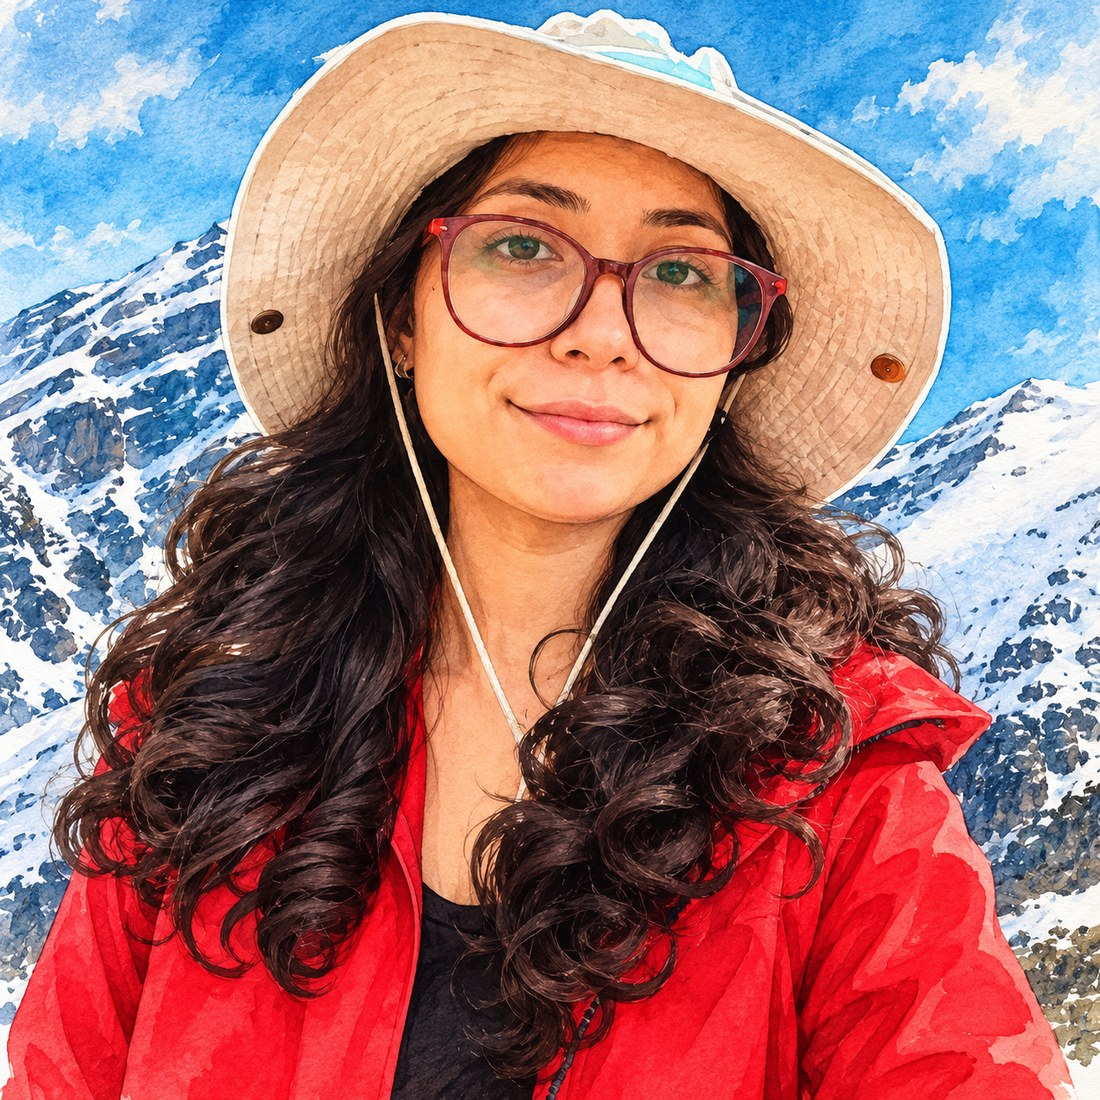
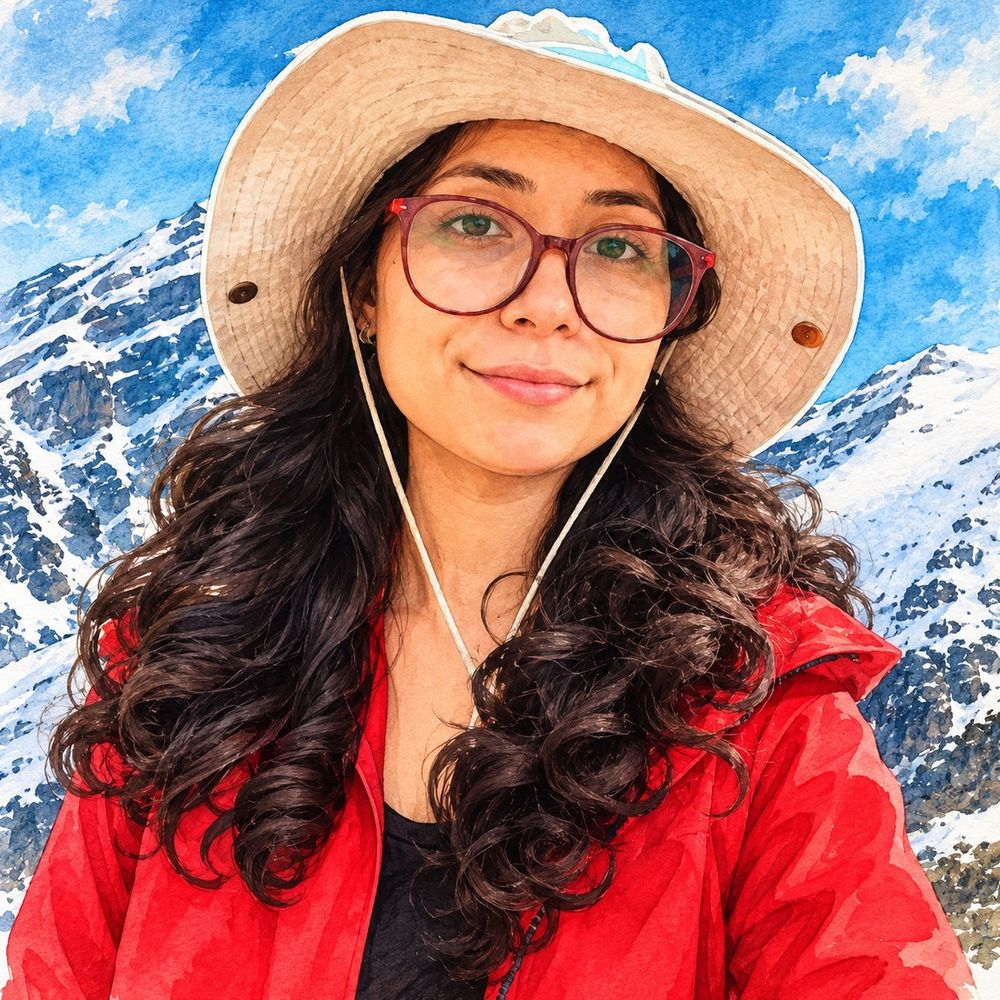
Carga más liviana y botones cómodos: stickers y fotos achicados (4,5 MB → 1,4 MB), el service worker solo precarga lo básico, más contraste en 3 textos y botones de 44 px

diff --git a/Dallana.css b/Dallana.css
@@ -511,6 +511,10 @@ main>header.cover{background:radial-gradient(circle,rgba(209,52,63,.08) 0 1px,tr
 @keyframes latir{0%,40%,100%{transform:scale(1)}15%{transform:scale(1.07)}}
 .music-volume{display:flex;align-items:center;gap:8px;min-height:44px;color:var(--tinta-suave);font-size:13px}
 .music-volume svg{width:20px;height:20px}
+.music-volume input[type=range]{height:32px;cursor:pointer}
+/* la × de los diálogos se ve igual, pero se puede tocar en un área de 48–52 px */
+.close::after,.alejandro-cerrar::after{content:"";position:absolute;inset:-6px;border-radius:50%}
+.alejandro-siguiente::after{content:"";position:absolute;inset:-4px -2px}
 .music-volume input{width:96px;accent-color:var(--vino);cursor:pointer}
 .music-volume output{min-width:36px;font-variant-numeric:tabular-nums;text-align:right}
 .music-hint{color:var(--tinta-suave);font:600 19px/1.3 var(--firma)}
@@ -538,7 +542,7 @@ main>header.cover{background:radial-gradient(circle,rgba(209,52,63,.08) 0 1px,tr
 .progress-hearts.completo .ph-corazon{animation:ph-latido 1.6s ease-in-out infinite;animation-delay:calc(var(--i)*.12s)}
 .hito-label{margin:18px 0 0}
 .pixel-hitos{display:flex;flex-wrap:wrap;gap:8px;margin-top:10px}
-.pixel-hito{display:inline-flex;align-items:center;gap:6px;min-height:40px;padding:8px 12px;border:2px dashed var(--linea);border-radius:10px;background:var(--tarjeta);color:var(--tinta-suave);font-weight:600;font-size:14px;cursor:pointer}
+.pixel-hito{display:inline-flex;align-items:center;gap:6px;min-height:44px;padding:8px 12px;border:2px dashed var(--linea);border-radius:10px;background:var(--tarjeta);color:var(--tinta-suave);font-weight:600;font-size:14px;cursor:pointer}
 .pixel-hito.abierto{border-style:solid;border-color:var(--vino);color:var(--vino);box-shadow:3px 3px 0 var(--vino)}
 .pixel-hito.abierto:hover{transform:translate(-1px,-1px);box-shadow:4px 4px 0 var(--vino)}
 .pixel-hito-icono{font-size:13px}
@@ -587,7 +591,7 @@ main>header.cover{background:radial-gradient(circle,rgba(209,52,63,.08) 0 1px,tr
 @media (prefers-reduced-motion:reduce){.paper .resalte,.paper.new .paper-sello,#random::after{animation:none}}
 .paper.new{animation:paper-in .6s cubic-bezier(.3,1.4,.5,1)}
 @keyframes paper-in{from{transform:rotate(2deg) translateY(12px) scale(.96);opacity:.3}}
-.paper-label{display:block;margin:0 0 12px;color:#8a8494;font:700 11px var(--sans);letter-spacing:.18em;text-transform:uppercase}
+.paper-label{display:block;margin:0 0 12px;color:var(--tinta-suave);font:700 11px var(--sans);letter-spacing:.18em;text-transform:uppercase}
 .paper #message{max-width:560px;margin:0 auto;overflow-wrap:anywhere;color:#2b2a33;font:600 clamp(25px,6.4vw,36px)/1.32 var(--firma);text-wrap:balance}
 .memory{display:none;width:100%;max-height:380px;aspect-ratio:4/3;margin-top:20px;object-fit:cover;border:8px solid #fff;border-radius:4px;box-shadow:var(--sombra)}
 .memory.show{display:block}
@@ -599,7 +603,7 @@ main>header.cover{background:radial-gradient(circle,rgba(209,52,63,.08) 0 1px,tr
 .action-row .icon-btn{width:52px;height:52px;border:2px solid var(--vino);background:#fff;font-size:22px;box-shadow:0 6px 14px -8px rgba(209,52,63,.6)}
 .action-row .icon-btn.favorite{background:var(--vino);color:#fff}
 .secondary-row{display:grid;grid-template-columns:repeat(auto-fit,minmax(min(100%,200px),1fr));gap:10px}
-.memory-feature #daily{background:var(--azul-claro);border-color:rgba(61,114,196,.35);color:var(--azul)}
+.memory-feature #daily{background:var(--azul-claro);border-color:rgba(61,114,196,.35);color:#2c5ca8}
 .memory-feature #daily:hover{background:#d6e4f8}
 .memory-feature #viewFavorites{border:1px solid rgba(79,154,74,.35);background:var(--verde-claro);color:var(--verde);font-weight:600}
 .memory-feature #viewFavorites:hover{background:#d8ecce}
@@ -759,7 +763,7 @@ main>header.cover{background:radial-gradient(circle,rgba(209,52,63,.08) 0 1px,tr
   background:radial-gradient(circle at 0 50%,transparent 9px,var(--mantequilla) 9.5px) left/51% 100% no-repeat,radial-gradient(circle at 100% 50%,transparent 9px,var(--mantequilla) 9.5px) right/51% 100% no-repeat;
   filter:drop-shadow(0 2px 0 var(--oro)) drop-shadow(0 6px 10px rgba(120,48,40,.12));color:var(--tinta-suave);font:500 14px/1.3 var(--sans)}
 .museo-coleccion b{color:var(--vino);font-weight:700}
-.museo-boleto{padding:2px 14px 2px 0;border-right:2px dashed var(--oro);color:var(--oro-oscuro);font:700 12px/1.25 var(--sans);letter-spacing:.08em;text-transform:uppercase}
+.museo-boleto{padding:2px 14px 2px 0;border-right:2px dashed var(--oro);color:#7a5316;font:700 12px/1.25 var(--sans);letter-spacing:.08em;text-transform:uppercase}
 .museo-boleto small{display:block;color:var(--tinta-suave);font:600 15px/1.1 var(--firma);letter-spacing:0;text-transform:none}
 .museo-puntos{display:flex;flex-wrap:wrap;gap:4px}
 .museo-puntos i{width:10px;height:10px;border:1px solid var(--oro);border-radius:2px;background:var(--tarjeta)}
@@ -1129,7 +1133,7 @@ dialog#letterDialog[open]{animation:letter-dialog-in .6s cubic-bezier(.18,.8,.25
 /* menú de Alejandro */
 .alejandro-menu{display:grid;gap:6px;margin:2px 0 4px}
 .alejandro-menu[hidden]{display:none}
-.alejandro-menu button{min-height:36px;padding:6px 12px;border:2px solid var(--vino);border-radius:12px;background:#fff6f2;color:var(--vino);font:inherit;font-size:14px;font-weight:600;text-align:left;cursor:pointer}
+.alejandro-menu button{min-height:44px;padding:8px 12px;border:2px solid var(--vino);border-radius:12px;background:#fff6f2;color:var(--vino);font:inherit;font-size:14px;font-weight:600;text-align:left;cursor:pointer}
 .alejandro-menu button:hover{background:#ffe9e2}
 #menuBuzonN:not(:empty){display:inline-block;min-width:20px;margin-left:4px;padding:0 6px;border-radius:999px;background:var(--vino);color:#fff;font-size:12px;text-align:center}
 /* carta de papá y buzón */
@@ -1140,7 +1144,7 @@ dialog#letterDialog[open]{animation:letter-dialog-in .6s cubic-bezier(.18,.8,.25
 .carta-papa-fecha{margin:2px 0 12px;font-size:13px;color:var(--tinta-suave)}
 .carta-papa-texto{margin:0;color:var(--tinta);font:500 clamp(22px,5vw,26px)/1.45 var(--firma);white-space:pre-wrap;overflow-wrap:anywhere}
 .carta-papa-acciones{display:flex;flex-wrap:wrap;gap:8px;justify-content:center;margin-top:16px}
-.carta-btn{min-height:42px;padding:8px 16px;border:2px solid var(--vino);border-radius:999px;background:var(--vino);color:#fff;font:inherit;font-size:15px;font-weight:600;cursor:pointer}
+.carta-btn{min-height:44px;padding:8px 16px;border:2px solid var(--vino);border-radius:999px;background:var(--vino);color:#fff;font:inherit;font-size:15px;font-weight:600;cursor:pointer}
 .carta-btn.suave{background:#fff;color:var(--vino)}
 .carta-btn:disabled{opacity:.6;cursor:progress}
 .buzon-lista{display:grid;gap:8px;margin:12px 0 0;padding:0;list-style:none}
@@ -1205,8 +1209,8 @@ dialog#letterDialog[open]{animation:letter-dialog-in .6s cubic-bezier(.18,.8,.25
 .alejandro-nombre{display:block;margin-right:24px;color:var(--vino);font-size:13px;letter-spacing:.3px}
 .alejandro-globo p{margin:4px 0 8px;font-size:14px;line-height:1.45}
 .alejandro-pie{display:flex;align-items:center;justify-content:space-between;gap:8px;font-size:12px;color:var(--tinta-suave)}
-.alejandro-siguiente{min-height:32px;padding:4px 12px;border:2px solid var(--vino);border-radius:999px;background:var(--vino);color:#fff;font:inherit;font-size:13px;font-weight:600;cursor:pointer}
-.alejandro-cerrar{position:absolute;top:4px;right:6px;width:28px;height:28px;border:0;background:transparent;color:var(--vino);font-size:20px;line-height:1;cursor:pointer}
+.alejandro-siguiente{position:relative;min-height:38px;padding:6px 14px;border:2px solid var(--vino);border-radius:999px;background:var(--vino);color:#fff;font:inherit;font-size:13px;font-weight:600;cursor:pointer}
+.alejandro-cerrar{position:absolute;top:4px;right:6px;width:32px;height:32px;border:0;background:transparent;color:var(--vino);font-size:20px;line-height:1;cursor:pointer}
 @keyframes alejandro-globo-in{from{opacity:0;transform:translateY(8px) scale(.9)}}
 @media (max-width:599px){
   .alejandro{left:14px;bottom:calc(12px + var(--safe-bottom));transition:transform .35s ease,opacity .35s ease}

diff --git a/Dallana.html b/Dallana.html
@@ -26,7 +26,7 @@
 <link rel="preconnect" href="https://fonts.googleapis.com">
 <link rel="preconnect" href="https://fonts.gstatic.com" crossorigin>
 <link href="https://fonts.googleapis.com/css2?family=Caveat:wght@600&family=DM+Sans:wght@400;500;700&family=Fraunces:ital,opsz,wght@0,9..144,400;0,9..144,600;1,9..144,400;1,9..144,500&display=swap" rel="stylesheet">
-<link rel="stylesheet" href="Dallana.css?v=8.8">
+<link rel="stylesheet" href="Dallana.css?v=8.9">
 <link rel="manifest" href="manifest.json">
 <meta name="mobile-web-app-capable" content="yes">
 <meta name="apple-mobile-web-app-capable" content="yes">
@@ -320,7 +320,7 @@
   </header>
   <article class="letter-paper">
     <div id="letterText" class="letter-body"></div>
-    <img class="letter-sticker" src="assets/stickers/stikers20.png" alt="" aria-hidden="true" decoding="async">
+    <img class="letter-sticker" src="assets/stickers/stikers20.png" alt="" aria-hidden="true" loading="lazy" decoding="async">
   </article>
 </dialog>
 
@@ -341,7 +341,7 @@
       <span class="nota-doodle nota-flor" aria-hidden="true"></span>
       <span class="nota-doodle nota-rama" aria-hidden="true"></span>
       <span class="nota-doodle nota-esquina" aria-hidden="true"></span>
-      <img class="nota-sticker" src="assets/stickers/stikers18.png" alt="" aria-hidden="true" decoding="async">
+      <img class="nota-sticker" src="assets/stickers/stikers18.png" alt="" aria-hidden="true" loading="lazy" decoding="async">
       <span class="chapter-kicker">PARA ESTE MOMENTO</span>
       <h3 id="openWhenNoteTitle">Una carta para ti</h3>
       <p id="openWhenMessage"></p>

diff --git a/sw.js b/sw.js
@@ -1,18 +1,15 @@
-const CACHE_NAME = 'dallana-v3.88';
+const CACHE_NAME = 'dallana-v3.89';
+// Solo lo básico para abrir sin internet. Lo demás (fotos, GIF de recuerdos, stickers) se guarda
+// en la caché cuando ella lo ve, así cada actualización no vuelve a bajar varios MB por adelantado.
 const ASSETS_TO_CACHE = [
   './',
   './Dallana.html',
-  './Dallana.css?v=8.8',
+  './Dallana.css?v=8.9',
   './Dallana.js?v=3.71',
   './manifest.json',
-  './assets/fotos/portada-musica.png',
-  './assets/fotos/migeo.jpg',
-  './assets/stickers/stikers3.png',
   './assets/icons/icon-192.png',
-  './assets/icons/icon-512.png',
   './assets/pixel/alejandro.png?v=5',
   './assets/pixel/buzon.png?v=1',
-  './assets/pixel/obras.png?v=1',
   './assets/pixel/adornos.png?v=1',
   './assets/pixel/postal-manana.png?v=1',
   './assets/pixel/postal-tarde.png?v=1',
@@ -20,15 +17,7 @@ const ASSETS_TO_CACHE = [
   './assets/pixel/dragones.png?v=3',
   './assets/pixel/disfraces/cartero.png?v=2',
   './assets/fotos/portada-polaroid.jpg?v=2',
-  './assets/fotos/portada-tira.jpg?v=1',
-  './assets/pixel/disfraces/guia-de-museo.png?v=2',
-  './assets/pixel/lluvia.gif',
-  './assets/pixel/cena.gif',
-  './assets/pixel/laguna.gif',
-  './assets/pixel/dormir.gif',
-  './assets/pixel/estudio.gif',
-  './assets/pixel/pasarela.gif',
-  './assets/pixel/pasarela2.gif'
+  './assets/fotos/portada-tira.jpg?v=1'
 ];
 
 self.addEventListener('install', event => {

diff --git a/memory-bank/progress.md b/memory-bank/progress.md
@@ -40,6 +40,7 @@
 - 2026-11-20: encabezado más bonito: papel de libreta con puntitos, estrellita y florcita dibujadas junto a «Para» y su nombre, composición de collage en 2 columnas desde 600 px (antes quedaba un hueco a la derecha en anchos medianos) y postales apiladas (`.postal-pila`: detrás asoma, girada, la postal de la hora siguiente, `#postalAtras`). Nombre con tamaño según el ancho para que quepa en su columna. CSS v8.4, JS v3.66, caché dallana-v3.82.
 - 2026-11-21: mini-juego «Atrapa corazones» (`#juegoDialog`, canvas 320×400): Alejandro con su disfraz atrapa corazones (+1), dorados (+5) y esquiva nubes (3 vidas); récord en `dallanaRecordJuego` con aviso a papá; con 20+ llena un corazón del día. Se abre desde la sección 02 y el menú de Alejandro. Stickers que reaccionan (`FRASES_STICKERS`): saltan y muestran una frase. Los globos de Alejandro (tutorial, novedades) esperan si hay un diálogo abierto.
 - 2026-11-21: juego v2: cielo según la hora con cerros y nubes, cuenta 3-2-1, carta (+3 y frase), estrella (imán 6 s), burbuja (escudo), racha x2/x3, niveles cada 30, Alejandro mareado/baila/enamorado (filas 10/2/8), chispas y textos, sonidos WebAudio con botón (`dallanaJuegoSonido`), pausa al salir, medallas 🥉10 🥈30 🥇60 💎100. Stickers v2: 4 animaciones que rotan, corazoncitos, 2 frases por sticker, globo con colita, colección `dallanaStickers` (al completarla Alejandro felicita y avisa a papá). Servidor de Cloudflare probado y descartado por decisión del usuario (se borró de su cuenta; `rincon-servidor/` queda apagado con `URL_RINCON=''`). Versiones: CSS v8.7, JS v3.69, caché dallana-v3.86.
+- 2026-11-21: rendimiento y accesibilidad: stickers achicados (máx. 360 px, 450 en stikers18/20; 256 colores) y fotos a 1000 px → imágenes de 4,5 MB a 1,4 MB con los mismos nombres; `sw.js` ya no precarga GIF de recuerdos ni fotos (solo lo básico; lo demás se guarda al verlo); letter-sticker y nota-sticker con `loading="lazy"`. Primera carga ≈730 KB sin contar la música (que solo pide metadatos). Contraste: `.paper-label` a `--tinta-suave`, `.museo-boleto` #7a5316, `#daily` #2c5ca8. Toque: botones del menú de Alejandro, `.pixel-hito` y `.carta-btn` a 44 px; `.close` y `.alejandro-cerrar` con área invisible `::after` más grande; volumen 32 px. Los GIF ya vienen comprimidos (Pillow no los reduce). Versiones: CSS v8.9, caché dallana-v3.89.
 - 2026-11-21: servidor opcional en Cloudflare (`rincon-servidor/`, guía en `rincon-servidor/GUIA.md`): temas de ntfy ocultos como secretos, PIN de Dallana (`#claveDialog`, `dallanaToken`), cartas guardadas para siempre (cron cada 15 min) y `/programar AAAA-MM-DD`, respaldo del progreso (`/api/progreso`, sube cada minuto si cambió y restaura lo que falte al entrar en otro teléfono). Se activa poniendo la dirección en `URL_RINCON` (vacío = igual que antes). Probado contra un servidor de prueba local. `sw.js` ya no intercepta peticiones a otros sitios (rompía los GET al servidor). Lista para probar en el teléfono: `PRUEBA-TELEFONO.md`. CSS v8.6, JS v3.68, caché dallana-v3.85.
 
 - 2026-11-21: Recuerdo 6 «Los patitos de la pasarela» (`assets/pixel/pasarela.gif`, 403 KB, `propuesta/escena_pasarela.py`): perspectiva de la foto de la pasarela, ellos de espaldas tomados de la mano, Dallana apunta a la laguna con patitos (izquierda), Eduardo con polerón crema y mochila con llavero de Alejandro. GIF con paleta común de 128 colores.
